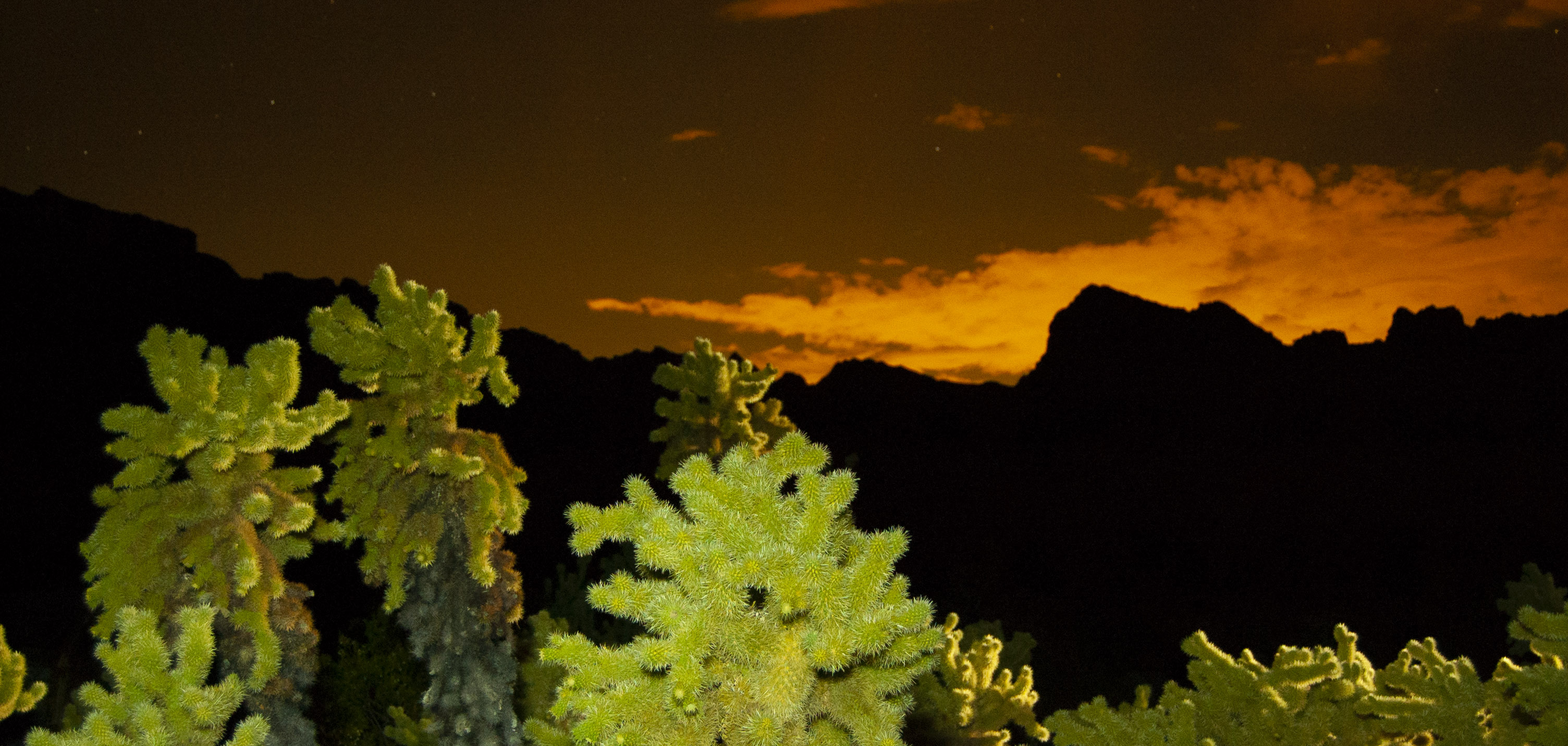
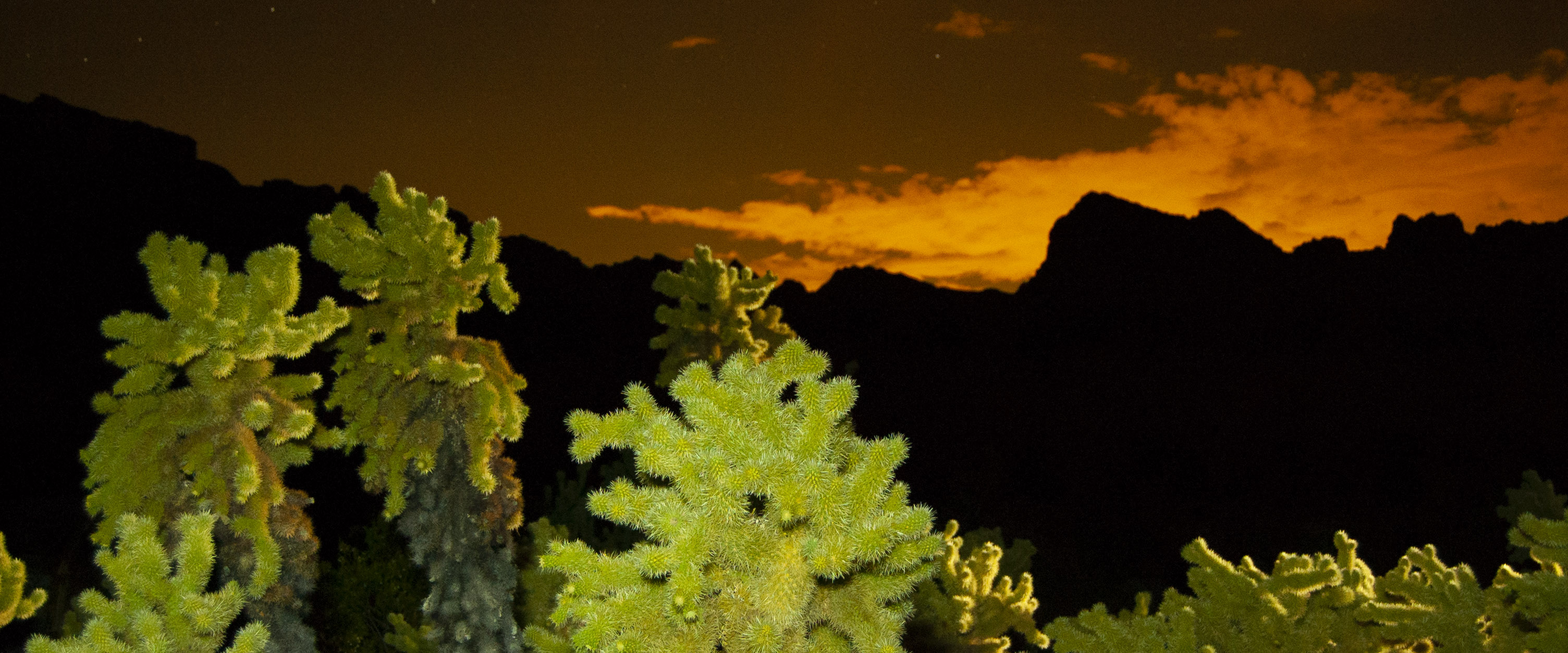
Built out hero,flexed hero, shadow to H1, header img adjusted

diff --git a/assets/css/style.css b/assets/css/style.css
@@ -20,8 +20,8 @@ body {
 header {
     padding: 20px 35px;
     background-color: var(--tertiary-color);
-    opacity: 0.90;
-    background-image: url("../images/desert_background.jpg");
+    /*opacity: 0.90;*/
+    background-image: url("../images/desert_background_header.jpg");
     background-size: cover;
     background-attachment: fixed;
     background-position: 80%;
@@ -78,5 +78,38 @@ header ul li a:hover {
     color: var(--secondary-color);
     text-decoration: underline;
 }
-
 /*End Header*/
+/*Begin Hero*/
+
+.hero {
+    background-image: url("../images/desert_background.jpg");
+    background-size: cover;
+    display: flex;
+    justify-content: center;
+    flex-wrap: wrap;
+    align-items: flex-end;
+    background-attachment: fixed;
+    background-position:80%;
+    min-height: 500px;
+    z-index: 9998;
+}
+
+.hero #tag-line {
+    width: 100%;
+    margin: 3.5%;
+    display:flex;
+    flex-direction: row;
+    justify-content: flex-end;
+
+
+}
+
+.hero #tag-line h2 {
+    text-align: right;
+    color: var(--secondary-color);
+    font-size: 30px;
+    line-height: 1.5;
+    letter-spacing: 5px;
+    font-style: italic;
+    text-shadow: 0 0 10px rgba(0, 0, 0, 1.0);
+}

diff --git a/index.html b/index.html
@@ -30,8 +30,10 @@
     <!--Hero-->
     <section class="hero">
         <div id="tag-line">
-        "If you dream it,<br />
-        I can do it!"
+            <h2>
+                "If you dream it,<br />
+                I can do it!"</h2>
+
         </div>
     </section>
     <!--End Hero-->
